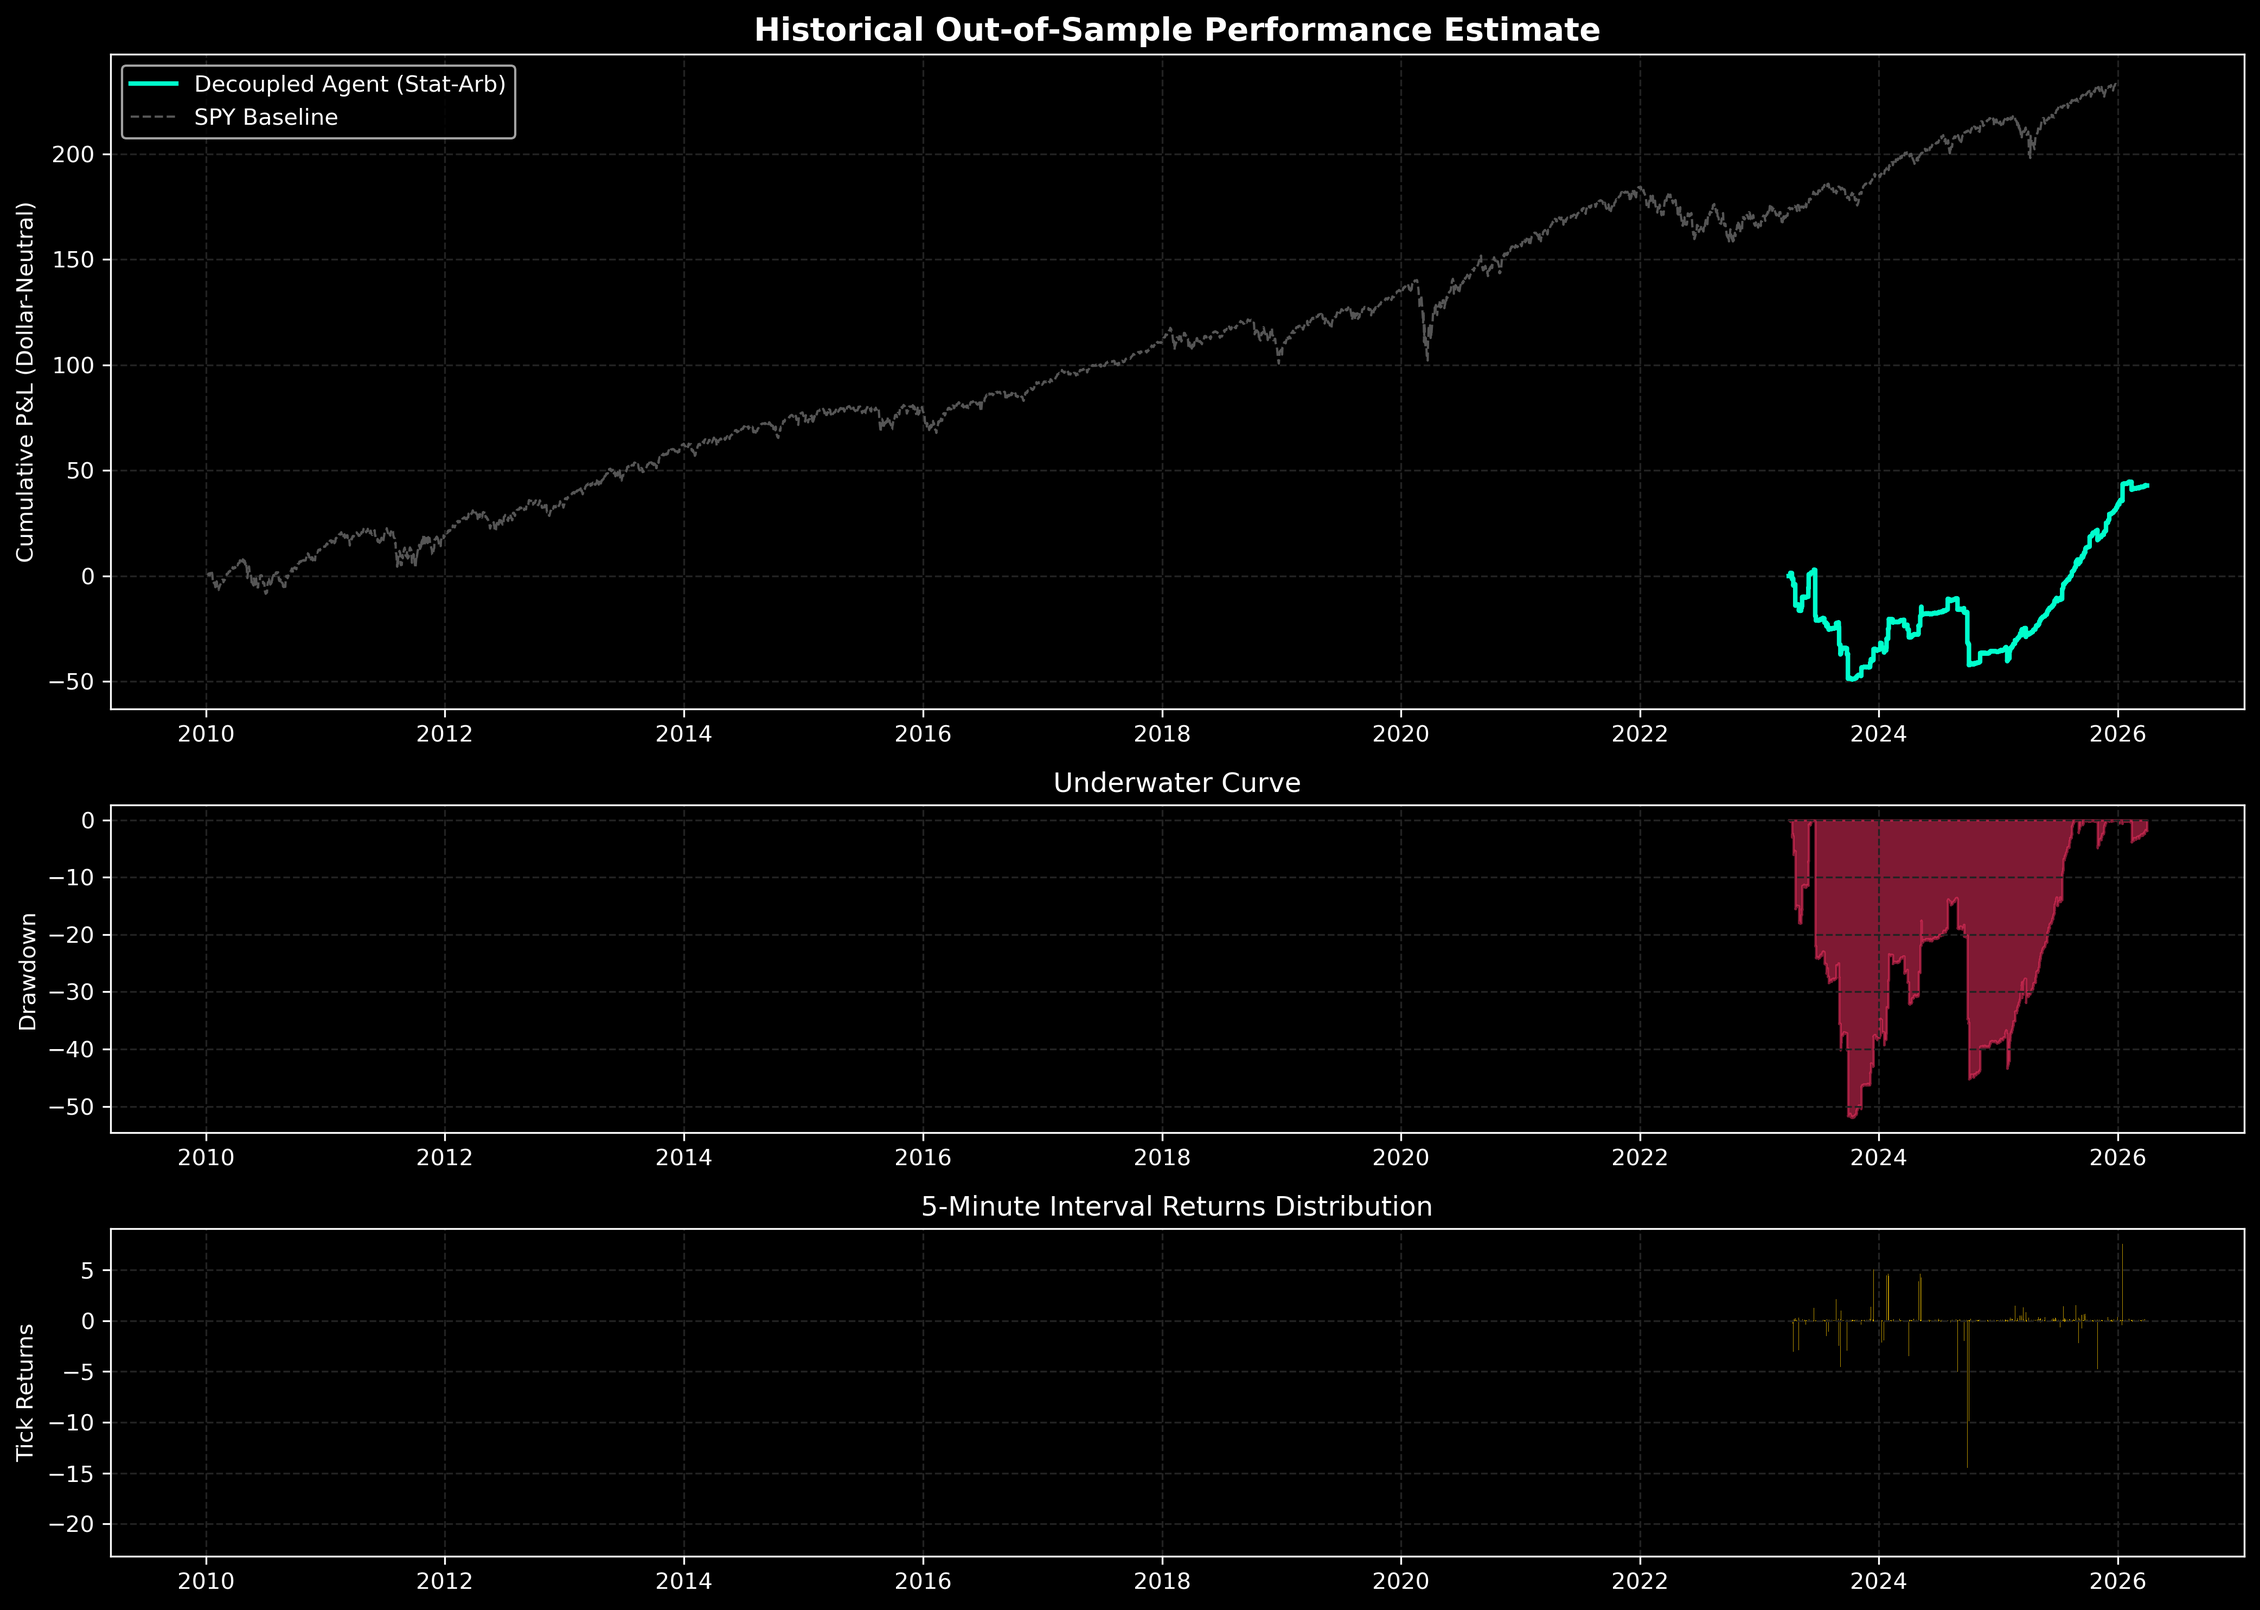
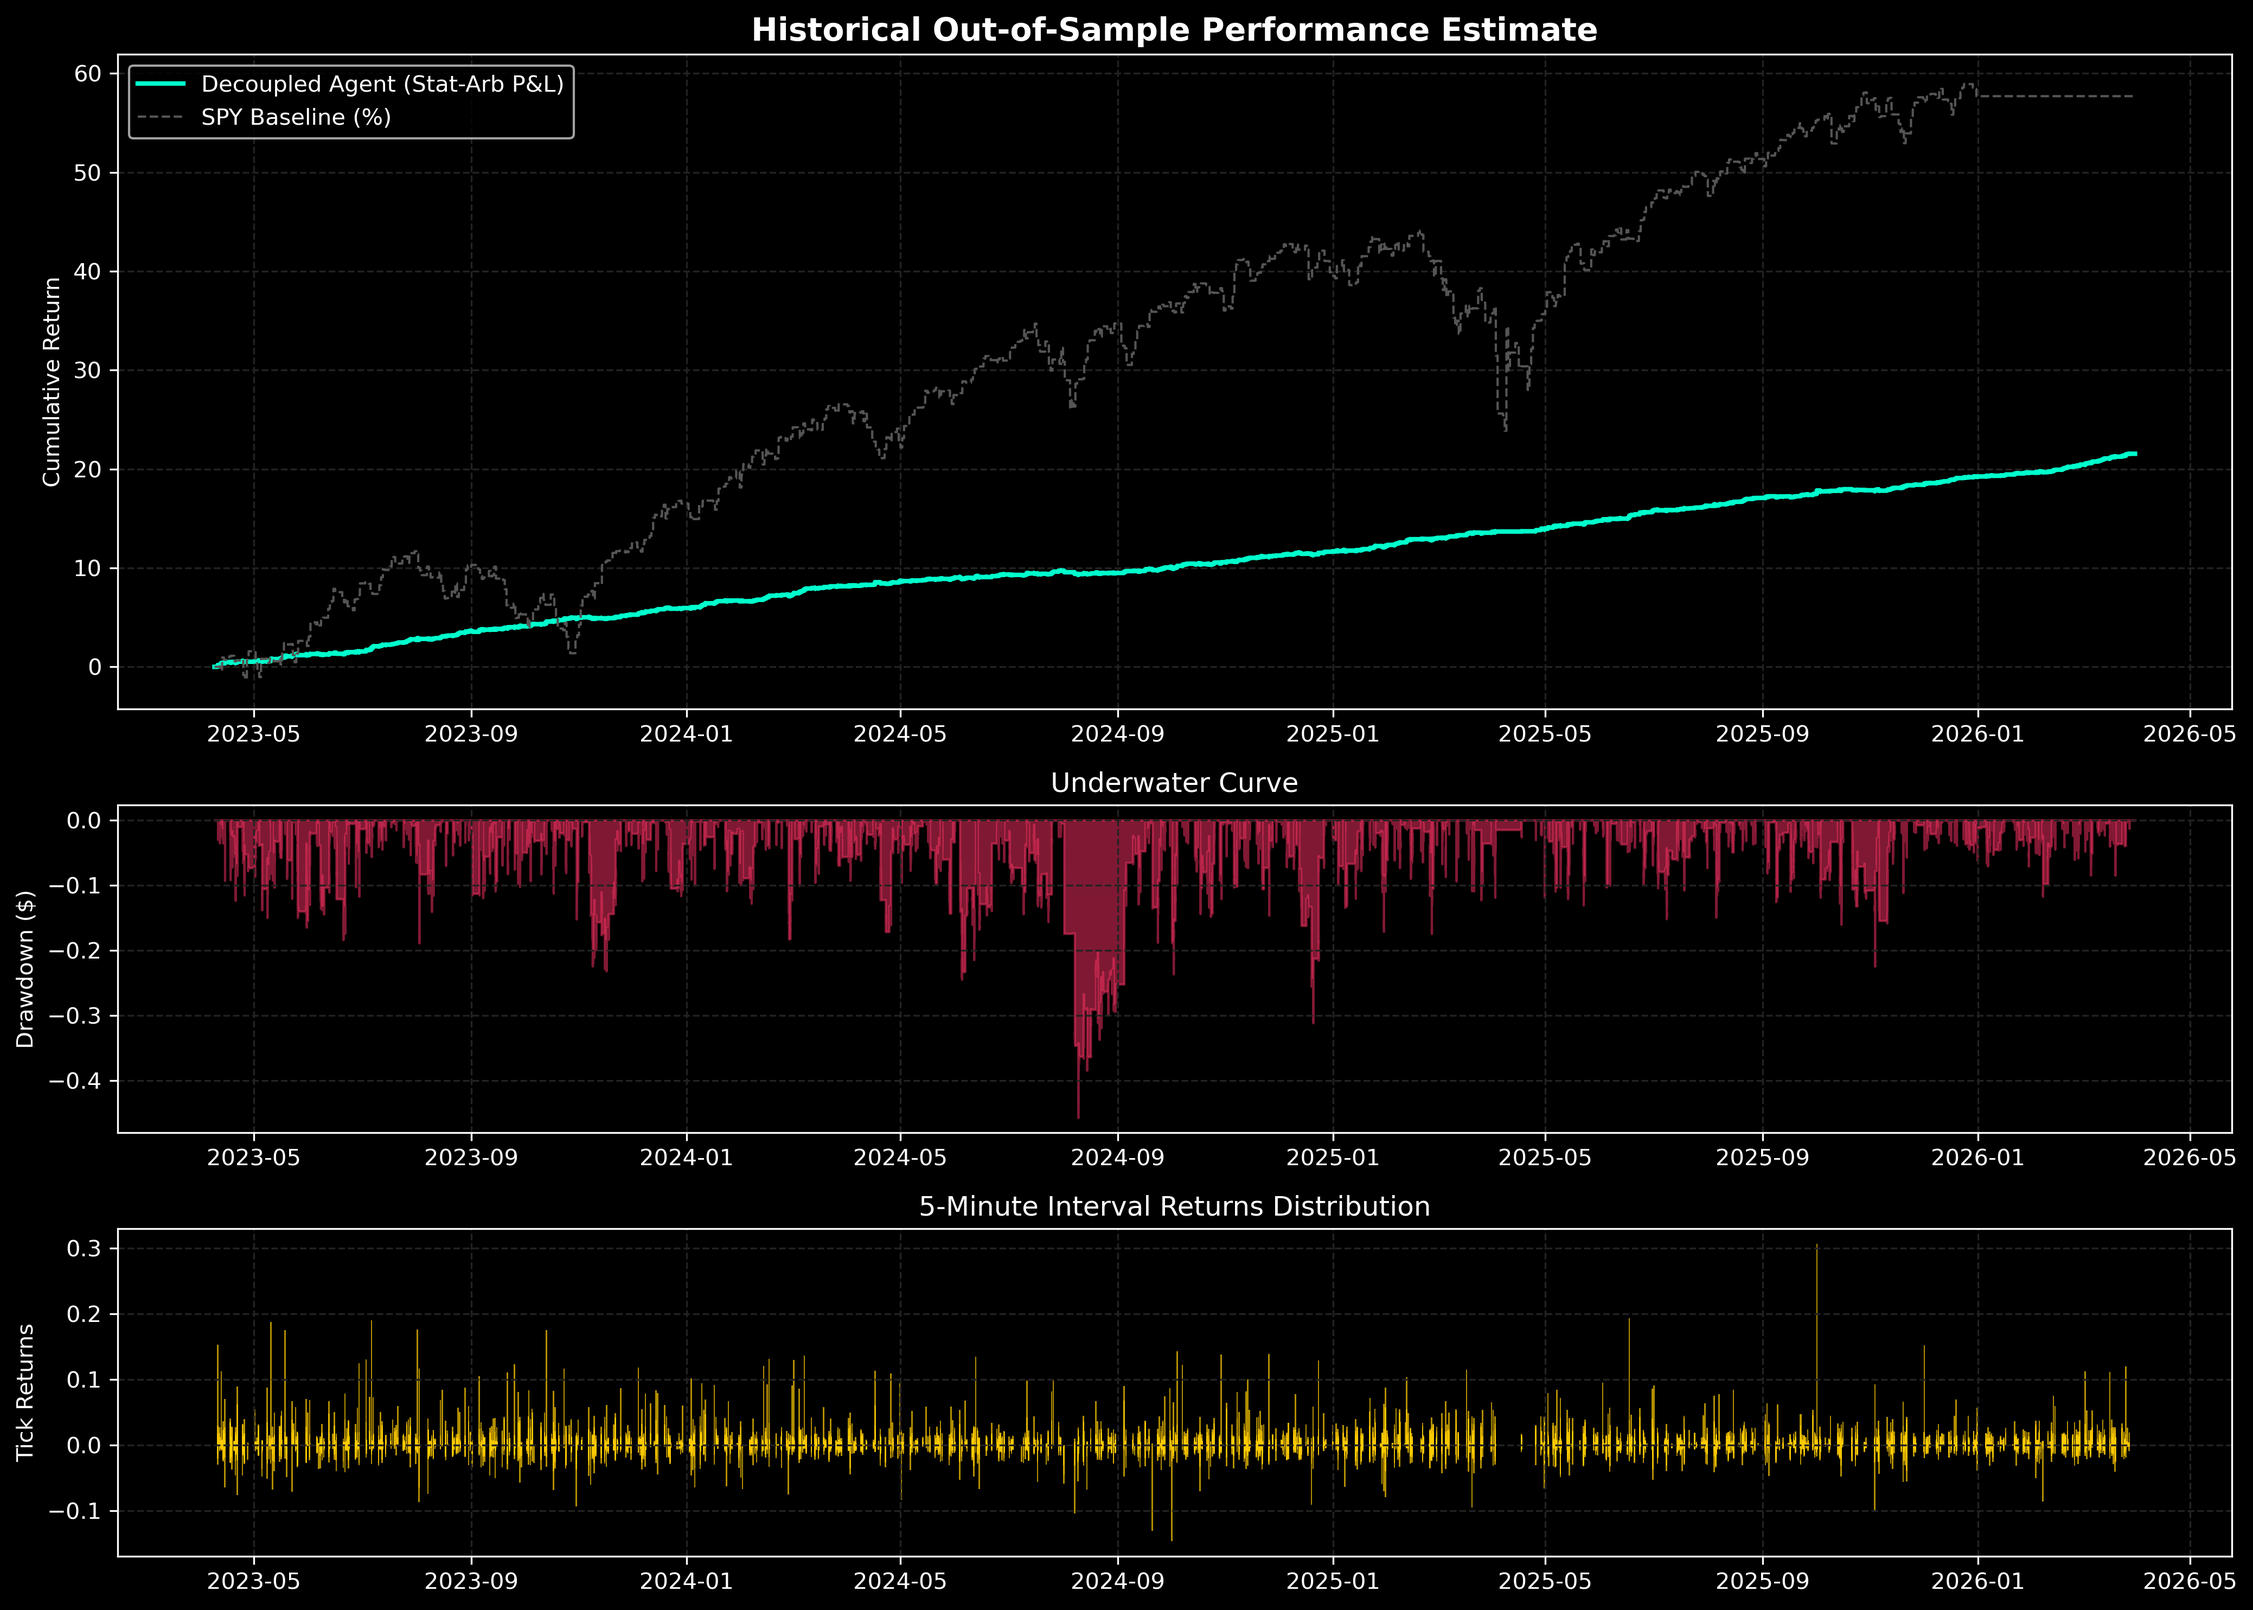
backtesting simulaton with real market friction added

diff --git a/backtesting/backtest_simulator.py b/backtesting/backtest_simulator.py
@@ -138,16 +138,16 @@ class VectorizedBacktester:
             if spread_val.eq(0).all():
                 continue
                     
-            # B. THE ENGINE: Calculate Z-Scores
-            window = max(int(half_life * 78), 30) # 78 5-min bars per day
-            rolling_mean = spread_val.rolling(window=window).mean()
-            rolling_std = spread_val.rolling(window=window).std()
+            # B. THE ENGINE: Calculate Z-Scores (UPGRADED TO EWMA)
+            window = max(int(half_life * 78), 30) 
             
-            # Avoid division by zero
+            # EWMA completely eliminates the "Drop-Off Effect" of simple rolling windows
+            rolling_mean = spread_val.ewm(span=window).mean()
+            rolling_std = spread_val.ewm(span=window).std()
+            
             rolling_std = rolling_std.replace(0, np.nan)
             z_score = (spread_val - rolling_mean) / rolling_std
             
-            # Base Signals: Long if Z < -2, Short if Z > 2
             base_signals = pd.Series(0, index=df.index)
             base_signals[z_score < -2.0] = 1
             base_signals[z_score > 2.0] = -1
@@ -177,7 +177,9 @@ class VectorizedBacktester:
                 win_probs = self.meta_labeler.predict(dmatrix)
                 
                 # 3. Filter base signals SAFELY without shrinking the array length
-                meta_mask = pd.Series(win_probs > 0.5, index=valid_idx)
+                # Strict Confidence Thresholding
+                # Force the model to only take trades with 55% conviction or higher
+                meta_mask = pd.Series(win_probs > 0.55, index=valid_idx)
                 
                 # Create a blank full-length series, then map the approved signals into it
                 filtered_signals = pd.Series(0, index=df.index)
@@ -188,64 +190,111 @@ class VectorizedBacktester:
             # D. Apply The Shield (Regime Filter)
             final_signals = base_signals.where(regime_safe_mask, 0)
             
-            # E. Event-Driven Execution (Triple Barrier Method)
+            # E. Event-Driven Execution (Triple Barrier + Bet Sizing + Mean Reversion)
             print(f"  -> Simulating path-dependent trades for {spread_name}...")
             
-            # Recreate the volatility scaling used in your training environment
-            # EWM span=100 on 5-min bars, scaled to approximate the daily volatility targets
             vol = spread_val.pct_change().ewm(span=100).std().fillna(0) * np.sqrt(78) 
             
-            in_position = 0        # 1 for Long, -1 for Short
+            in_position = 0        
             entry_price = 0.0
             entry_idx = 0
             current_vol = 0.0
             
-            # We must iterate row-by-row to respect the exact path of the trade
+            # AFML Bet Sizing: We need to track the model's confidence at entry
+            trade_size_multiplier = 0.0 
+            
+            # Define a 30-day warm-up period to completely bypass early data artifacts
+            # 78 5-min bars per day * 30 days = 2340 bars
+            WARMUP_BARS = 2340 
+            
             for i in range(1, len(df)):
                 current_price = spread_val.iloc[i]
                 prev_price = spread_val.iloc[i-1]
                 signal = final_signals.iloc[i]
+                current_z = z_score.iloc[i]
+                current_time = df.index[i].time()
                 
-                # 1. Look for Entry (if flat)
-                if in_position == 0:
-                    if signal != 0:
+                # 1. Look for Entry (if flat) AND past warm-up
+                if in_position == 0 and i > WARMUP_BARS:
+                    
+                    # Microstructure Time Filter
+                    # Forbid new entries during the chaotic open (9:30-9:45) and close (15:45-16:00)
+                    is_safe_time = (current_time >= pd.Timestamp("09:45").time()) and \
+                                   (current_time <= pd.Timestamp("15:45").time())
+                    
+                    if signal != 0 and is_safe_time:
                         in_position = signal
                         entry_price = current_price
                         entry_idx = i
-                        # Lock in the volatility at the moment of entry to set the barrier widths
-                        current_vol = vol.iloc[i] if vol.iloc[i] > 0 else 0.005 
+                        current_vol = vol.iloc[i] if vol.iloc[i] > 0 else 0.005
+                        
+                        # The Half-Kelly Criterion
+                        if self.meta_labeler is not None:
+                            prob = win_probs[i] if i < len(win_probs) else 0.55
+                            R = 1.5 
+                            kelly_fraction = prob - ((1.0 - prob) / R)
+                            trade_size_multiplier = max(0.0, kelly_fraction / 2.0)
+                        else:
+                            trade_size_multiplier = 0.5 
+                            
+                        # --- REALITY CHECK: ENTRY FRICTION ---
+                        LEVERAGE_SCALAR = 4.0
+                        active_capital = allocation * trade_size_multiplier * LEVERAGE_SCALAR
+                        
+                        # Deduct 0.05% spread crossing penalty
+                        entry_friction_cost = active_capital * 0.0005
+                        portfolio_returns.iloc[i] -= entry_friction_cost
                 
                 # 2. Manage Open Position (if active)
                 elif in_position != 0:
                     bars_held = i - entry_idx
                     
-                    # Calculate Mark-to-Market tick P&L for the equity curve
                     if prev_price != 0:
-                        tick_ret = (current_price - prev_price) * in_position * allocation
+                        # UPGRADE 3: Optimized Volatility Scaling (Alpaca Margin Limit)
+                        LEVERAGE_SCALAR = 4.0
+                        active_capital = allocation * trade_size_multiplier * LEVERAGE_SCALAR
+                        tick_ret = (current_price - prev_price) * in_position * active_capital
                     else:
                         tick_ret = 0
                         
                     portfolio_returns.iloc[i] += tick_ret
                     
-                    # 3. Check Triple Barriers
                     if entry_price != 0:
                         trade_return = (current_price / entry_price - 1) * in_position
                     else:
                         trade_return = 0
                         
-                    # pt_sl=[1, 2] -> Profit Take = 1x Volatility, Stop Loss = 2x Volatility
-                    profit_take_threshold = current_vol * 1.0
-                    stop_loss_threshold = -(current_vol * 2.0)
+                    # Barrier Skew Optimization [2, 1]
+                    # Cut losses strictly at 1 standard deviation.
+                    # Let mean-reverting winners run to 2 standard deviations.
+                    profit_take_threshold = current_vol * 2
+                    stop_loss_threshold = -(current_vol * 1.0)
                     
                     hit_pt = trade_return >= profit_take_threshold
                     hit_sl = trade_return <= stop_loss_threshold
-                    hit_time = bars_held >= 120  # t1=120 (10 hours of 5-min bars)
+                    hit_time = bars_held >= 120
                     
-                    # Exit the trade if any barrier is touched
-                    if hit_pt or hit_sl or hit_time:
+                    # Mean Reversion Early Exit
+                    # If long (Z < -2), exit when Z crosses above 0
+                    # If short (Z > 2), exit when Z crosses below 0
+                    hit_mean_reversion = False
+                    if in_position == 1 and current_z >= 0:
+                        hit_mean_reversion = True
+                    elif in_position == -1 and current_z <= 0:
+                        hit_mean_reversion = True
+                    
+                    # Exit the trade if any barrier or mean reversion is touched
+                    if hit_pt or hit_sl or hit_time or hit_mean_reversion:
+                        
+                        # --- REALITY CHECK: EXIT FRICTION ---
+                        # Deduct 0.05% spread crossing penalty
+                        exit_friction_cost = active_capital * 0.0005
+                        portfolio_returns.iloc[i] -= exit_friction_cost
+                        
                         in_position = 0 
                         entry_price = 0.0
                         entry_idx = 0
+                        trade_size_multiplier = 0.0
 
         # 4. Fetch SPY from the CSV for the baseline comparison
         csv_path = os.path.join(self.data_dir, "raw_macro_data.csv")
@@ -268,43 +317,49 @@ class VectorizedBacktester:
         fig = plt.figure(figsize=(14, 10))
         gs = GridSpec(3, 1, height_ratios=[2, 1, 1])
         
-        # Calculate Cumulative Returns
-        portfolio_returns = portfolio_returns.dropna()
-        cum_returns = portfolio_returns.cumsum()
+       # --- THE ALIGNMENT FIX ---
+        WARMUP_BARS = 2340
         
-        # Calculate SPY baseline (Buy & Hold) for comparison
-        spy_returns = spy_data.pct_change().dropna().cumsum() * 100 
+        # Slice off the warm-up period so both assets start at the exact same time
+        active_portfolio = portfolio_returns.iloc[WARMUP_BARS:]
+        active_spy = spy_data.reindex(active_portfolio.index).ffill()
+        
+        # Calculate Cumulative Returns for the Bot
+        cum_returns = active_portfolio.cumsum()
+        
+        # Calculate SPY baseline starting from 0% on the exact same day
+        spy_returns = (active_spy.pct_change().fillna(0).cumsum()) * 100 
         
         # Subplot 1: Equity Curve
         ax1 = fig.add_subplot(gs[0])
-        ax1.plot(cum_returns.index, cum_returns, color='#00ffcc', linewidth=2, label='Decoupled Agent (Stat-Arb)')
-        ax1.plot(spy_returns.index, spy_returns, color='#555555', linewidth=1, linestyle='--', label='SPY Baseline')
+        ax1.plot(cum_returns.index, cum_returns, color='#00ffcc', linewidth=2, label='Decoupled Agent (Stat-Arb P&L)')
+        ax1.plot(spy_returns.index, spy_returns, color='#555555', linewidth=1, linestyle='--', label='SPY Baseline (%)')
+        
         ax1.set_title('Historical Out-of-Sample Performance Estimate', fontsize=14, fontweight='bold')
-        ax1.set_ylabel('Cumulative P&L (Dollar-Neutral)')
+        ax1.set_ylabel('Cumulative Return')
         ax1.grid(color='#222222', linestyle='--')
         ax1.legend(loc='upper left')
         
-        # Calculate Drawdown
+        # Calculate Drawdown based strictly on active trading period
         rolling_max = cum_returns.cummax()
         drawdown = cum_returns - rolling_max
         
         # Subplot 2: Underwater Plot (Drawdown)
         ax2 = fig.add_subplot(gs[1], sharex=ax1)
         ax2.fill_between(drawdown.index, drawdown, 0, color='#ff3366', alpha=0.5)
-        ax2.set_ylabel('Drawdown')
+        ax2.set_ylabel('Drawdown ($)')
         ax2.set_title('Underwater Curve', fontsize=12)
         ax2.grid(color='#222222', linestyle='--')
         
         # Subplot 3: Daily Return Volatility
         ax3 = fig.add_subplot(gs[2], sharex=ax1)
-        ax3.bar(portfolio_returns.index, portfolio_returns, color='#ffcc00', alpha=0.7)
+        ax3.bar(active_portfolio.index, active_portfolio, color='#ffcc00', alpha=0.7)
         ax3.set_ylabel('Tick Returns')
         ax3.set_title('5-Minute Interval Returns Distribution', fontsize=12)
         ax3.grid(color='#222222', linestyle='--')
         
         plt.tight_layout()
         
-        # Save the image instead of trying to open a GUI window inside Docker
         output_image = "backtest_tearsheet_3yr.png"
         plt.savefig(output_image, dpi=300, bbox_inches='tight', facecolor=fig.get_facecolor())
         print(f"\n[SUCCESS] Performance Tear Sheet saved as '{output_image}'")
@@ -313,10 +368,12 @@ class VectorizedBacktester:
         print("\n====== ESTIMATED HISTORICAL PERFORMANCE ======")
         print(f"Total Cumulative P&L: ${cum_returns.iloc[-1]:.2f} (Per Unit Leveraged)")
         print(f"Max Drawdown:         ${drawdown.min():.2f}")
-        print(f"Trade Density:        {len(portfolio_returns[portfolio_returns != 0])} Active 5-min intervals")
+        print(f"Trade Density:        {len(active_portfolio[active_portfolio != 0])} Active 5-min intervals")
         print("==============================================")
 
 
 if __name__ == "__main__":
     backtester = VectorizedBacktester()
     backtester.run_simulation()
+
+    
